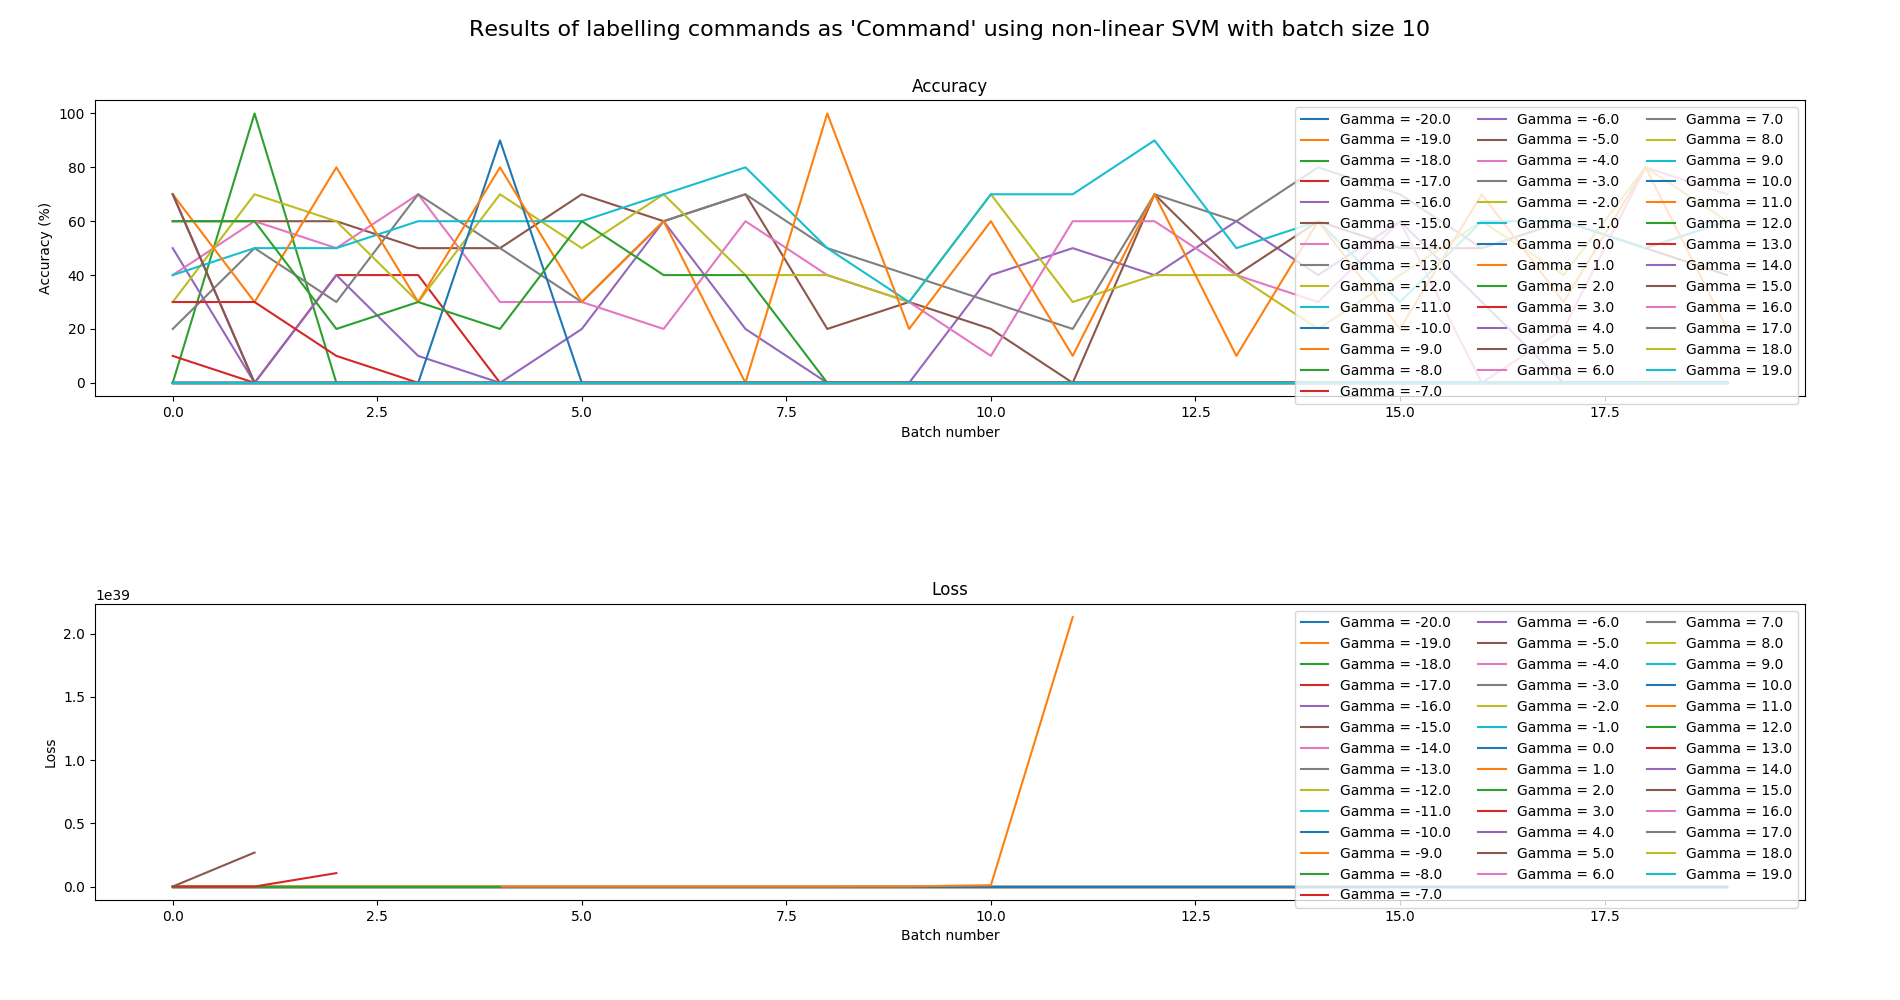
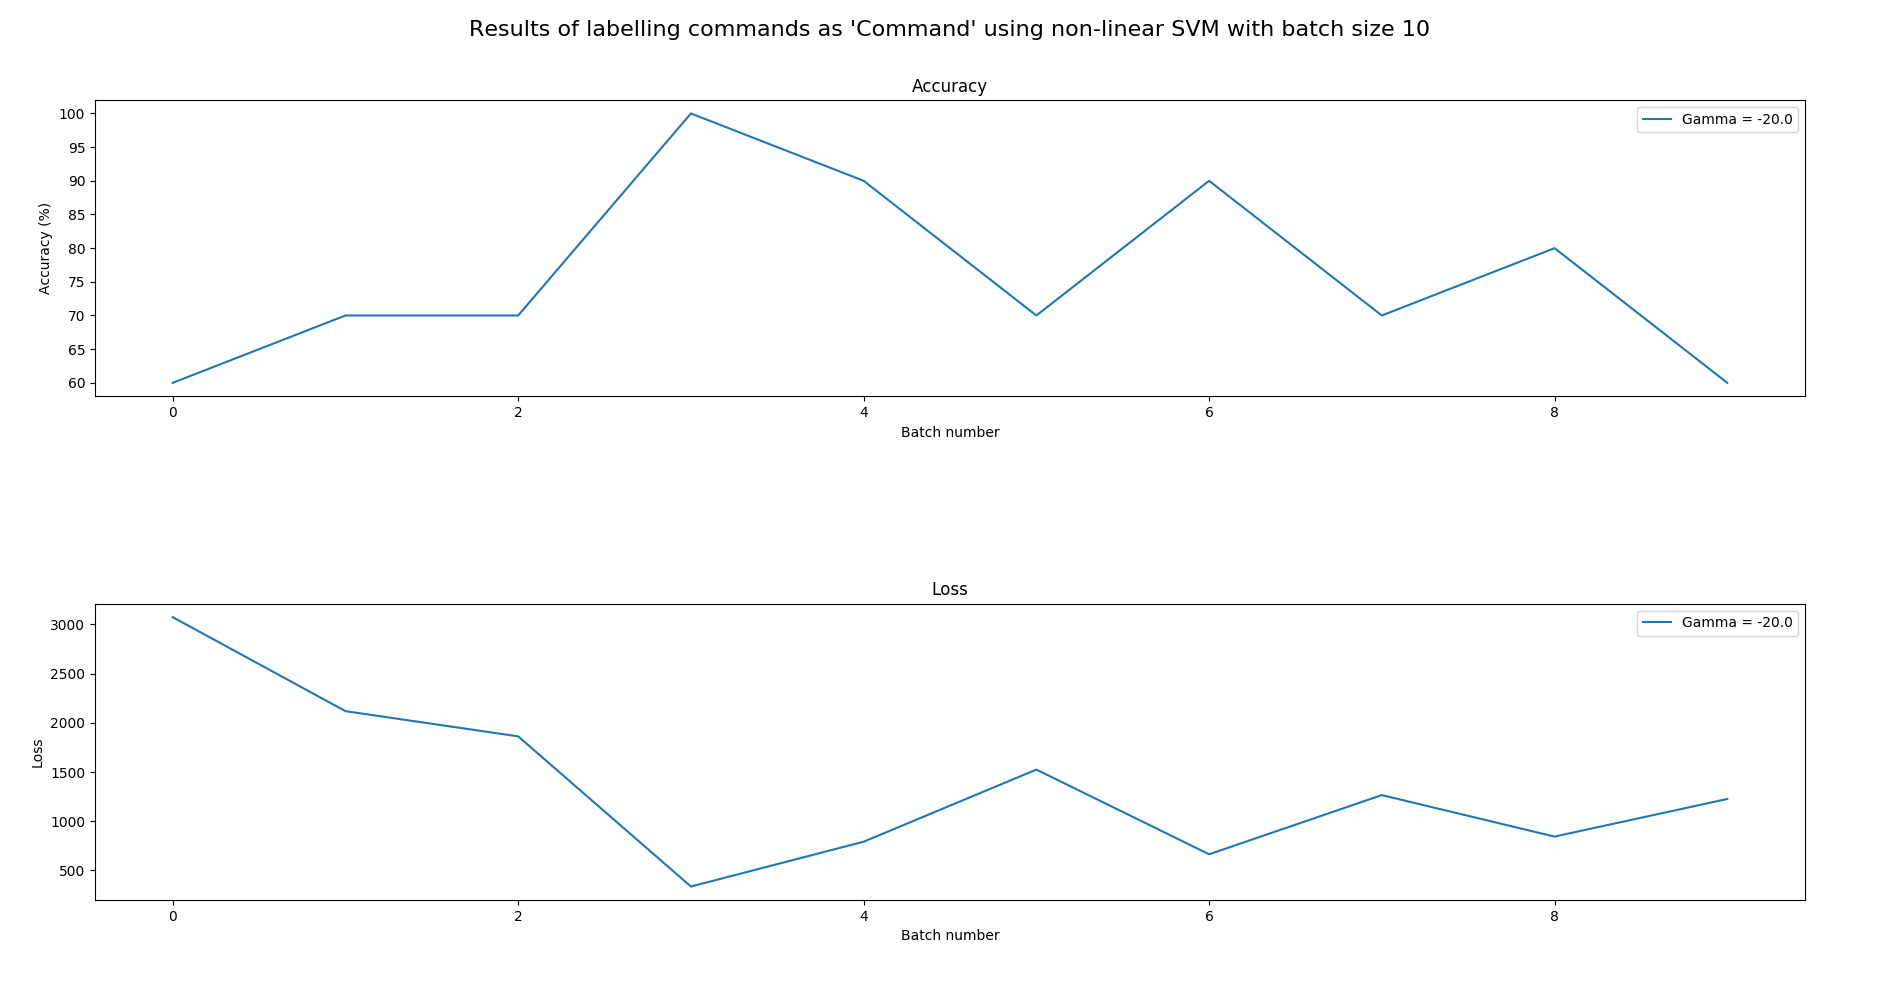
Tried to use tf.data.Datasets

diff --git a/labelling/svm.py b/labelling/svm.py
@@ -15,11 +15,18 @@ import numpy as np
 import matplotlib.pyplot as plt
 from matplotlib.ticker import ScalarFormatter
 
+#
+# Set up environment
+#
+
+# Uncomment the following line to output all rows of pandas dataframes
+#pd.set_option('display.max_rows', df.type.size)
+
 PATH_TO_DATASET = "datasets/commands.pkl"
 PATH_TO_IMAGES = "images"
 BASE_LABEL = 'Command'
 
-BATCH_SIZE = 30
+BATCH_SIZE = 10
 
 
 NUMBER_OF_PREDICTORS = 100
@@ -28,8 +35,7 @@ NUMBER_OF_PREDICTIONS = 1
 GAMMA = -20.0
 LEARNING_RATE = 0.01
 
-NUMER_OF_BATCHES = 20
-
+NUMER_OF_BATCHES = 10
 
 # Allow allocation of lots of memory
 configp = ConfigProto()
@@ -37,118 +43,140 @@ configp.gpu_options.allow_growth = True
 
 tf.compat.v1.disable_eager_execution()
 
+#
+# Set up dataset
+#
+
 # Read dataset
 df = pd.read_pickle(PATH_TO_DATASET)
-#df.dropna(inplace = True, how = 'any')
-print("Loaded dataset:")
+
+# Drop nans and reset index
+df.dropna(inplace = True, how = 'any')
 df = df.reset_index(drop=True)
-pd.set_option('display.max_rows', df.type.size)
+
+# Add dummy columns
+df = pd.get_dummies(df, columns = ['type'])
+
+# Update labels
+dummy_columns = ['type_Command', 'type_IndirectCommand', 'type_Request']
+#df[dummy_columns] = df[dummy_columns].replace({0: -1})
+
+# Output loaded dataset
+print("Loaded dataset:")
 print(df)
+print("Datatypes of columns:")
+print(df.dtypes)
+
+# Next we could create tf.data.Dataset if we would use eager execution
+# dataset = tf.data.Dataset.from_tensor_slices((pd.DataFrame(df.text.tolist()), df[dummy_columns]))
+
+# for predictors, label in dataset.take(5):
+# 	print(f"Predictors: {predictors}; Label: {label}")
 
 # Numberize labels
-df = numberize_labels(df, 'type', BASE_LABEL, numeric_labels = [1, -1], label_type = int)
-print("Loaded dataset after numberizing labels:")
-print(df)
+#df = numberize_labels(df, 'type', BASE_LABEL, numeric_labels = [1, -1], label_type = int)
+#print("Loaded dataset after numberizing labels:")
+#print(df)
 # Split by label values
-dfs = split_by_label_values(df, 'type')
-for command_type in dfs.keys():
-	print(f"Commands with type {command_type}:")
-	print(dfs[command_type])
+#dfs = split_by_label_values(df, 'type')
+#for command_type in dfs.keys():
+#	print(f"Commands with type {command_type}:")
+#	print(dfs[command_type])
 
-for BATCH_SIZE in np.arange(10, 100, 10):
+#for BATCH_SIZE in np.arange(10, 100, 10):
 
-	fig, axs = plt.subplots(2)
-	plt.subplots_adjust(bottom=0.1, top=0.9, hspace=0.7, left=0.05, right=0.95)
+fig, axs = plt.subplots(2)
+plt.subplots_adjust(bottom=0.1, top=0.9, hspace=0.7, left=0.05, right=0.95)
 
-	fig.set_figwidth(19)
-	fig.set_figheight(10)
-	fig.suptitle(f"Results of labelling commands as '{BASE_LABEL}' using non-linear SVM with batch size {BATCH_SIZE}", fontsize=16)
+fig.set_figwidth(19)
+fig.set_figheight(10)
+fig.suptitle(f"Results of labelling commands as '{BASE_LABEL}' using non-linear SVM with batch size {BATCH_SIZE}", fontsize=16)
 
 
-	for GAMMA in np.arange(-20.0, 20.0, 1.0, dtype = np.float32):
-		print(f"GAMMA = {GAMMA}")
-		
-		session = Session(config=configp)
-		# Set up placeholders for training data
-		print(f"Setting up placeholders...")
-		x_data = tf.compat.v1.placeholder(shape = [None, NUMBER_OF_PREDICTORS], dtype=tf.float32)
-		y_target = tf.compat.v1.placeholder(shape = [None, NUMBER_OF_PREDICTIONS], dtype = tf.float32)
-		prediction_grid = tf.compat.v1.placeholder(shape = [None, NUMBER_OF_PREDICTORS], dtype = tf.float32)
-		b = tf.Variable(tf.compat.v1.random_normal(shape=[NUMBER_OF_PREDICTIONS, BATCH_SIZE]))
+#	for GAMMA in np.arange(-20.0, 20.0, 1.0, dtype = np.float32):
+print(f"GAMMA = {GAMMA}")
 
-		gamma = tf.compat.v1.constant(GAMMA)
-		dist = tf.compat.v1.reduce_sum(tf.compat.v1.square(x_data), NUMBER_OF_PREDICTIONS)
-		dist = tf.compat.v1.reshape(dist, [-1, 1])
-		sq_dists = tf.compat.v1.add(tf.compat.v1.subtract(dist, tf.compat.v1.multiply(2., tf.compat.v1.matmul(x_data, tf.compat.v1.transpose(x_data)))), tf.compat.v1.transpose(dist))
-		kernel = tf.compat.v1.exp(tf.compat.v1.multiply(gamma, tf.compat.v1.abs(sq_dists)))
+session = Session(config=configp)
+# Set up placeholders for training data
+print(f"Setting up placeholders...")
+x_data = tf.compat.v1.placeholder(shape = [None, NUMBER_OF_PREDICTORS], dtype=tf.float32)
+y_target = tf.compat.v1.placeholder(shape = [None, NUMBER_OF_PREDICTIONS], dtype = tf.float32)
+prediction_grid = tf.compat.v1.placeholder(shape = [None, NUMBER_OF_PREDICTORS], dtype = tf.float32)
+b = tf.Variable(tf.compat.v1.random_normal(shape=[NUMBER_OF_PREDICTIONS, BATCH_SIZE]))
 
-		# compute loss for the dual optimization problem
-		print("Setting up losses...")
-		model_output = tf.compat.v1.matmul(b, kernel)
-		first_term = tf.compat.v1.reduce_sum(b)
-		b_vec_cross = tf.compat.v1.matmul(tf.compat.v1.transpose(b), b)
-		y_target_cross = tf.compat.v1.matmul(tf.compat.v1.transpose(y_target), y_target)
-		second_term = tf.compat.v1.reduce_sum(tf.compat.v1.multiply(kernel, tf.compat.v1.multiply(b_vec_cross, y_target_cross)))
-		loss = tf.compat.v1.negative(tf.compat.v1.subtract(first_term, second_term))
+gamma = tf.compat.v1.constant(GAMMA)
+dist = tf.compat.v1.reduce_sum(tf.compat.v1.square(x_data), NUMBER_OF_PREDICTIONS)
+dist = tf.compat.v1.reshape(dist, [-1, 1])
+sq_dists = tf.compat.v1.add(tf.compat.v1.subtract(dist, tf.compat.v1.multiply(2., tf.compat.v1.matmul(x_data, tf.compat.v1.transpose(x_data)))), tf.compat.v1.transpose(dist))
+kernel = tf.compat.v1.exp(tf.compat.v1.multiply(gamma, tf.compat.v1.abs(sq_dists)))
 
-		rA = tf.compat.v1.reshape(tf.compat.v1.reduce_sum(tf.compat.v1.square(x_data), 1), [-1, 1])
-		rB = tf.compat.v1.reshape(tf.compat.v1.reduce_sum(tf.compat.v1.square(prediction_grid)), [-1, 1])
-		pred_sq_dist = tf.compat.v1.add(tf.compat.v1.subtract(rA, tf.compat.v1.multiply(2., tf.compat.v1.matmul(x_data, tf.compat.v1.transpose(prediction_grid)))), tf.transpose(rB))
-		pred_kernel = tf.compat.v1.exp(tf.compat.v1.multiply(gamma, tf.compat.v1.abs(pred_sq_dist)))
-		prediction_output = tf.compat.v1.matmul(tf.compat.v1.multiply(tf.compat.v1.transpose(y_target), b), pred_kernel)
+# compute loss for the dual optimization problem
+print("Setting up losses...")
+model_output = tf.compat.v1.matmul(b, kernel)
+first_term = tf.compat.v1.reduce_sum(b)
+b_vec_cross = tf.compat.v1.matmul(tf.compat.v1.transpose(b), b)
+y_target_cross = tf.compat.v1.matmul(tf.compat.v1.transpose(y_target), y_target)
+second_term = tf.compat.v1.reduce_sum(tf.compat.v1.multiply(kernel, tf.compat.v1.multiply(b_vec_cross, y_target_cross)))
+loss = tf.compat.v1.negative(tf.compat.v1.subtract(first_term, second_term))
 
-		prediction = tf.compat.v1.sign(prediction_output - tf.compat.v1.reduce_mean(prediction_output))
-		accuracy = tf.compat.v1.reduce_mean(tf.compat.v1.cast(tf.compat.v1.equal(tf.compat.v1.squeeze(prediction), tf.compat.v1.squeeze(y_target)), tf.float32))
+rA = tf.compat.v1.reshape(tf.compat.v1.reduce_sum(tf.compat.v1.square(x_data), 1), [-1, 1])
+rB = tf.compat.v1.reshape(tf.compat.v1.reduce_sum(tf.compat.v1.square(prediction_grid)), [-1, 1])
+pred_sq_dist = tf.compat.v1.add(tf.compat.v1.subtract(rA, tf.compat.v1.multiply(2., tf.compat.v1.matmul(x_data, tf.compat.v1.transpose(prediction_grid)))), tf.transpose(rB))
+pred_kernel = tf.compat.v1.exp(tf.compat.v1.multiply(gamma, tf.compat.v1.abs(pred_sq_dist)))
+prediction_output = tf.compat.v1.matmul(tf.compat.v1.multiply(tf.compat.v1.transpose(y_target), b), pred_kernel)
 
-		# Train
-		optimizer = tf.compat.v1.train.GradientDescentOptimizer(LEARNING_RATE)
-		train_step = optimizer.minimize(loss)
+prediction = tf.compat.v1.sign(prediction_output - tf.compat.v1.reduce_mean(prediction_output))
+accuracy = tf.compat.v1.reduce_mean(tf.compat.v1.cast(tf.compat.v1.equal(tf.compat.v1.squeeze(prediction), tf.compat.v1.squeeze(y_target)), tf.float32))
 
-		# Start training
-		init = tf.compat.v1.global_variables_initializer()
-		session.run(init)
+# Train
+optimizer = tf.compat.v1.train.GradientDescentOptimizer(LEARNING_RATE)
+train_step = optimizer.minimize(loss)
 
-		# Really start training
-		print("Training...")
-		loss_vec = []
-		batch_accuracy = []
-		for i in range(NUMER_OF_BATCHES):
-			rand_indices = np.random.choice(df.text.size, size = BATCH_SIZE)
-			#print(f"Step {i}: selected items with indices \n{rand_indices}")
-			#print(f"Step {i}: pre-selected items \n{df.text[rand_indices]}")
-			rand_x = np.transpose(np.dstack(df.text[rand_indices].to_numpy())[0])
-			#print(f"Step {i}: selected items \n{rand_x}\n with shape {rand_x.shape}")
-			rand_y = np.transpose([df.type[rand_indices]])
-			#print(f"Step {i}: corresponding true labels are \n{rand_y}")
-			session.run(train_step, feed_dict={x_data: rand_x, y_target: rand_y})
-			temp_loss =session.run(loss, feed_dict={x_data: rand_x, y_target: rand_y})
-			loss_vec.append(temp_loss)
-			acc_temp = session.run(accuracy, feed_dict={x_data: rand_x, y_target: rand_y, prediction_grid: rand_x})
-			batch_accuracy.append(acc_temp)
+# Start training
+init = tf.compat.v1.global_variables_initializer()
+session.run(init)
 
-		print(f"Computed losses: \n{loss_vec}")
-		print(f"Computed accuracies: \n{batch_accuracy}")
+# Really start training
+print("Training...")
+loss_vec = []
+batch_accuracy = []
+for i in range(NUMER_OF_BATCHES):
+	rand_indices = np.random.choice(df.text.size, size = BATCH_SIZE)
+	#print(f"Step {i}: selected items with indices \n{rand_indices}")
+	#print(f"Step {i}: pre-selected items \n{df.text[rand_indices]}")
+	rand_x = np.transpose(np.dstack(df.text[rand_indices].to_numpy())[0])
+	#print(f"Step {i}: selected items \n{rand_x}\n with shape {rand_x.shape}")
+	rand_y = np.transpose([df.type_Request[rand_indices]])
+	#print(f"Step {i}: corresponding true labels are \n{rand_y}")
+	session.run(train_step, feed_dict={x_data: rand_x, y_target: rand_y})
+	temp_loss =session.run(loss, feed_dict={x_data: rand_x, y_target: rand_y})
+	loss_vec.append(temp_loss)
+	acc_temp = session.run(accuracy, feed_dict={x_data: rand_x, y_target: rand_y, prediction_grid: rand_x})
+	batch_accuracy.append(acc_temp)
 
-		#
-		# Draw plots
-		#
+print(f"Computed losses: \n{loss_vec}")
+print(f"Computed accuracies: \n{batch_accuracy}")
 
-		axs[0].plot(list(map(lambda a: a*100, batch_accuracy)), label = f'Gamma = {GAMMA}')
-		axs[0].set_title('Accuracy')
-		#axs[0].set_yscale('log')
-		axs[0].set_xlabel('Batch number')
-		axs[0].set_ylabel('Accuracy (%)')
-		axs[0].yaxis.set_major_formatter(ScalarFormatter())
-		axs[0].yaxis.set_minor_formatter(ScalarFormatter())
+#
+# Draw plots
+#
 
-		axs[1].plot(list(map(lambda a: a*100, loss_vec)), label = f'Gamma = {GAMMA}')
-		axs[1].set_title('Loss')
-		#axs[1].set_yscale('log')
-		axs[1].set_xlabel('Batch number')
-		axs[1].set_ylabel('Loss')
-		axs[1].yaxis.set_major_formatter(ScalarFormatter())
-		axs[1].yaxis.set_minor_formatter(ScalarFormatter())
+axs[0].plot(list(map(lambda a: a*100, batch_accuracy)), label = f'Gamma = {GAMMA}')
+axs[0].set_title('Accuracy')
+#axs[0].set_yscale('log')
+axs[0].set_xlabel('Batch number')
+axs[0].set_ylabel('Accuracy (%)')
+axs[0].yaxis.set_major_formatter(ScalarFormatter())
+axs[0].yaxis.set_minor_formatter(ScalarFormatter())
 
-	axs[0].legend(ncol=3)
-	axs[1].legend(ncol=3)
-	fig.savefig(os.path.join(PATH_TO_IMAGES, f'svm-{BATCH_SIZE}.png'))
+axs[1].plot(list(map(lambda a: a*100, loss_vec)), label = f'Gamma = {GAMMA}')
+axs[1].set_title('Loss')
+#axs[1].set_yscale('log')
+axs[1].set_xlabel('Batch number')
+axs[1].set_ylabel('Loss')
+axs[1].yaxis.set_major_formatter(ScalarFormatter())
+axs[1].yaxis.set_minor_formatter(ScalarFormatter())
+
+axs[0].legend(ncol=3)
+axs[1].legend(ncol=3)
+fig.savefig(os.path.join(PATH_TO_IMAGES, f'svm-{BATCH_SIZE}.png'))
